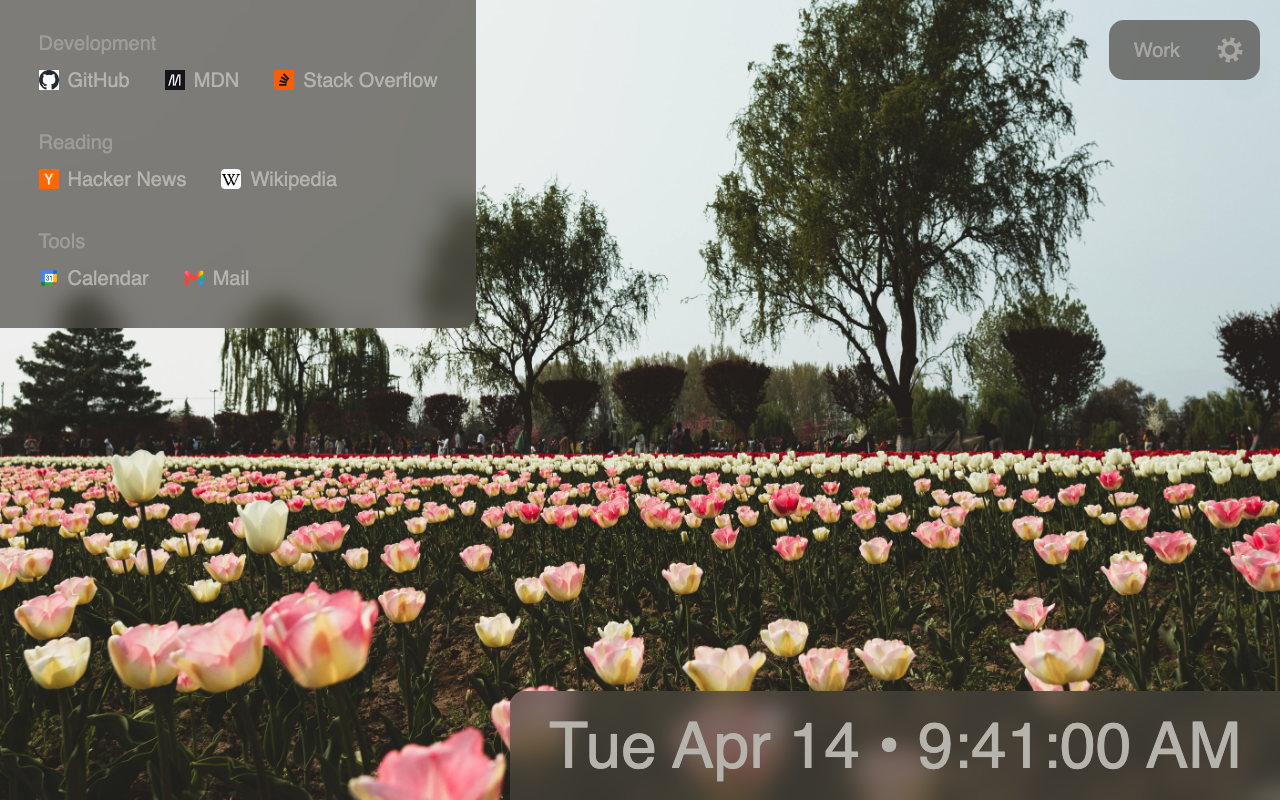
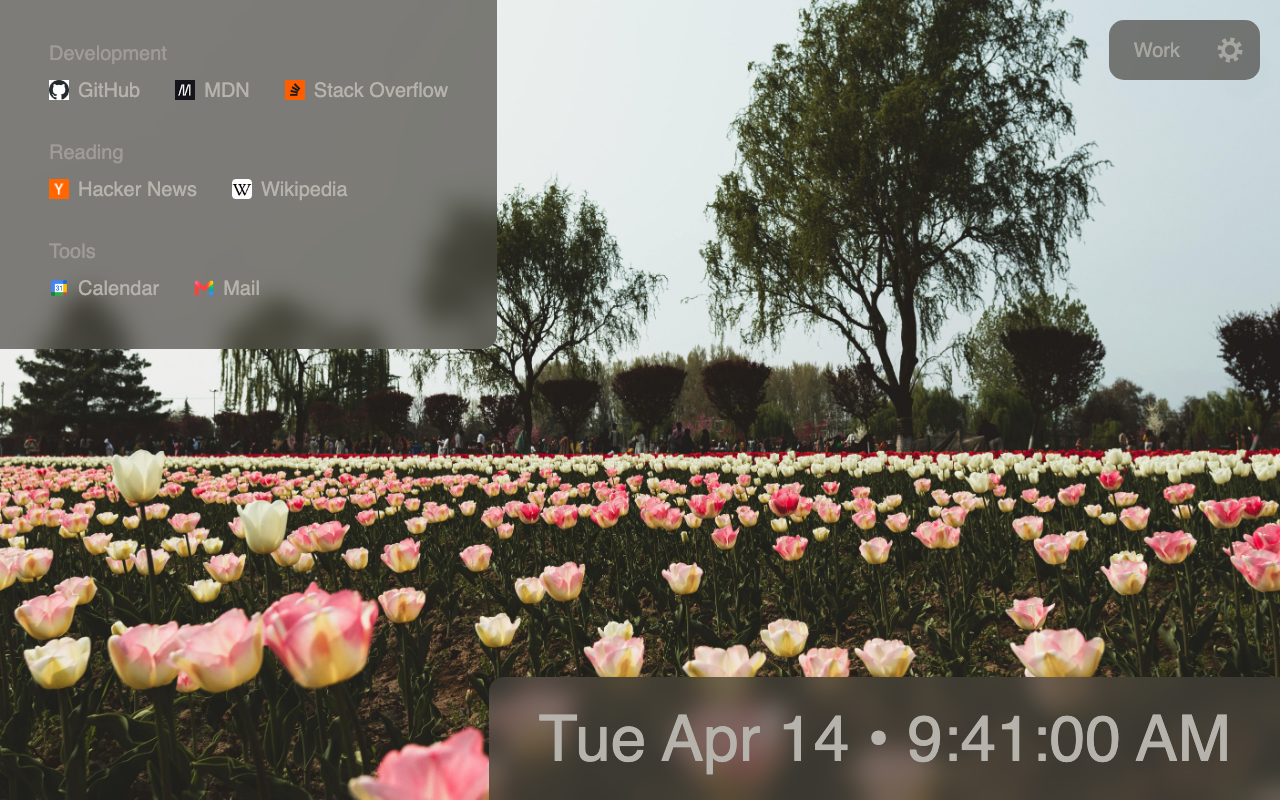
Give the panels still more padding
The panels still felt cramped. Base panel padding goes from 1.75rem to
2.5rem, the clock's padding from 1.25rem/2.75rem to 1.75rem/3.5rem
(2.5rem on top in Center), and the Center footer's to match, keeping the
clock text in line with the link text and the gear in line with the
right edge. Density still scales all of it.

Regenerates the store screenshots.

diff --git a/panels.css b/panels.css
@@ -54,7 +54,7 @@ body.no-favicons a.link .favicon {
   /* box-shadow: 0 0 1em #000; */
   border-radius: var(--panel-radius);
   backdrop-filter: blur(var(--panel-blur));
-  padding: calc(1.75rem * var(--density, 1));
+  padding: calc(2.5rem * var(--density, 1));
   max-height: 100%;
   overflow: auto;
 }
@@ -120,8 +120,8 @@ body.no-favicons a.link .favicon {
   /* Matches the links panel: its padding vertically, and its text inset
      (panel padding plus link padding) horizontally, so the two panels read
      as a set. --density comes from the density setting (end of file). */
-  --clock-pad-y: 1.25rem;
-  --clock-pad-x: 2.75rem;
+  --clock-pad-y: 1.75rem;
+  --clock-pad-x: 3.5rem;
   padding: calc(var(--clock-pad-y) * var(--density, 1)) calc(var(--clock-pad-x) * var(--density, 1));
   z-index: 1;
   border-top-right-radius: 0;
@@ -196,8 +196,8 @@ body[data-layout="center"] {
   & .clock {
     order: -1;
     /* x matches the links' text inset, so the divider lines up with them */
-    --clock-pad-y: 1.75rem;
-    --clock-pad-x: 2.75rem;
+    --clock-pad-y: 2.5rem;
+    --clock-pad-x: 3.5rem;
     text-align: center;
 
     & > span {
@@ -221,7 +221,7 @@ body[data-layout="center"] {
     gap: calc(0.25rem * var(--density, 1));
     /* the buttons' own boxes add about 0.5rem around their glyphs, so this
        leaves the same visual gap below the gear as above the date */
-    padding: 0 calc(2rem * var(--density, 1)) calc(1.5rem * var(--density, 1));
+    padding: 0 calc(2.75rem * var(--density, 1)) calc(2.25rem * var(--density, 1));
 
     & .set-switcher-toggle {
       padding: 0 0.5rem;
